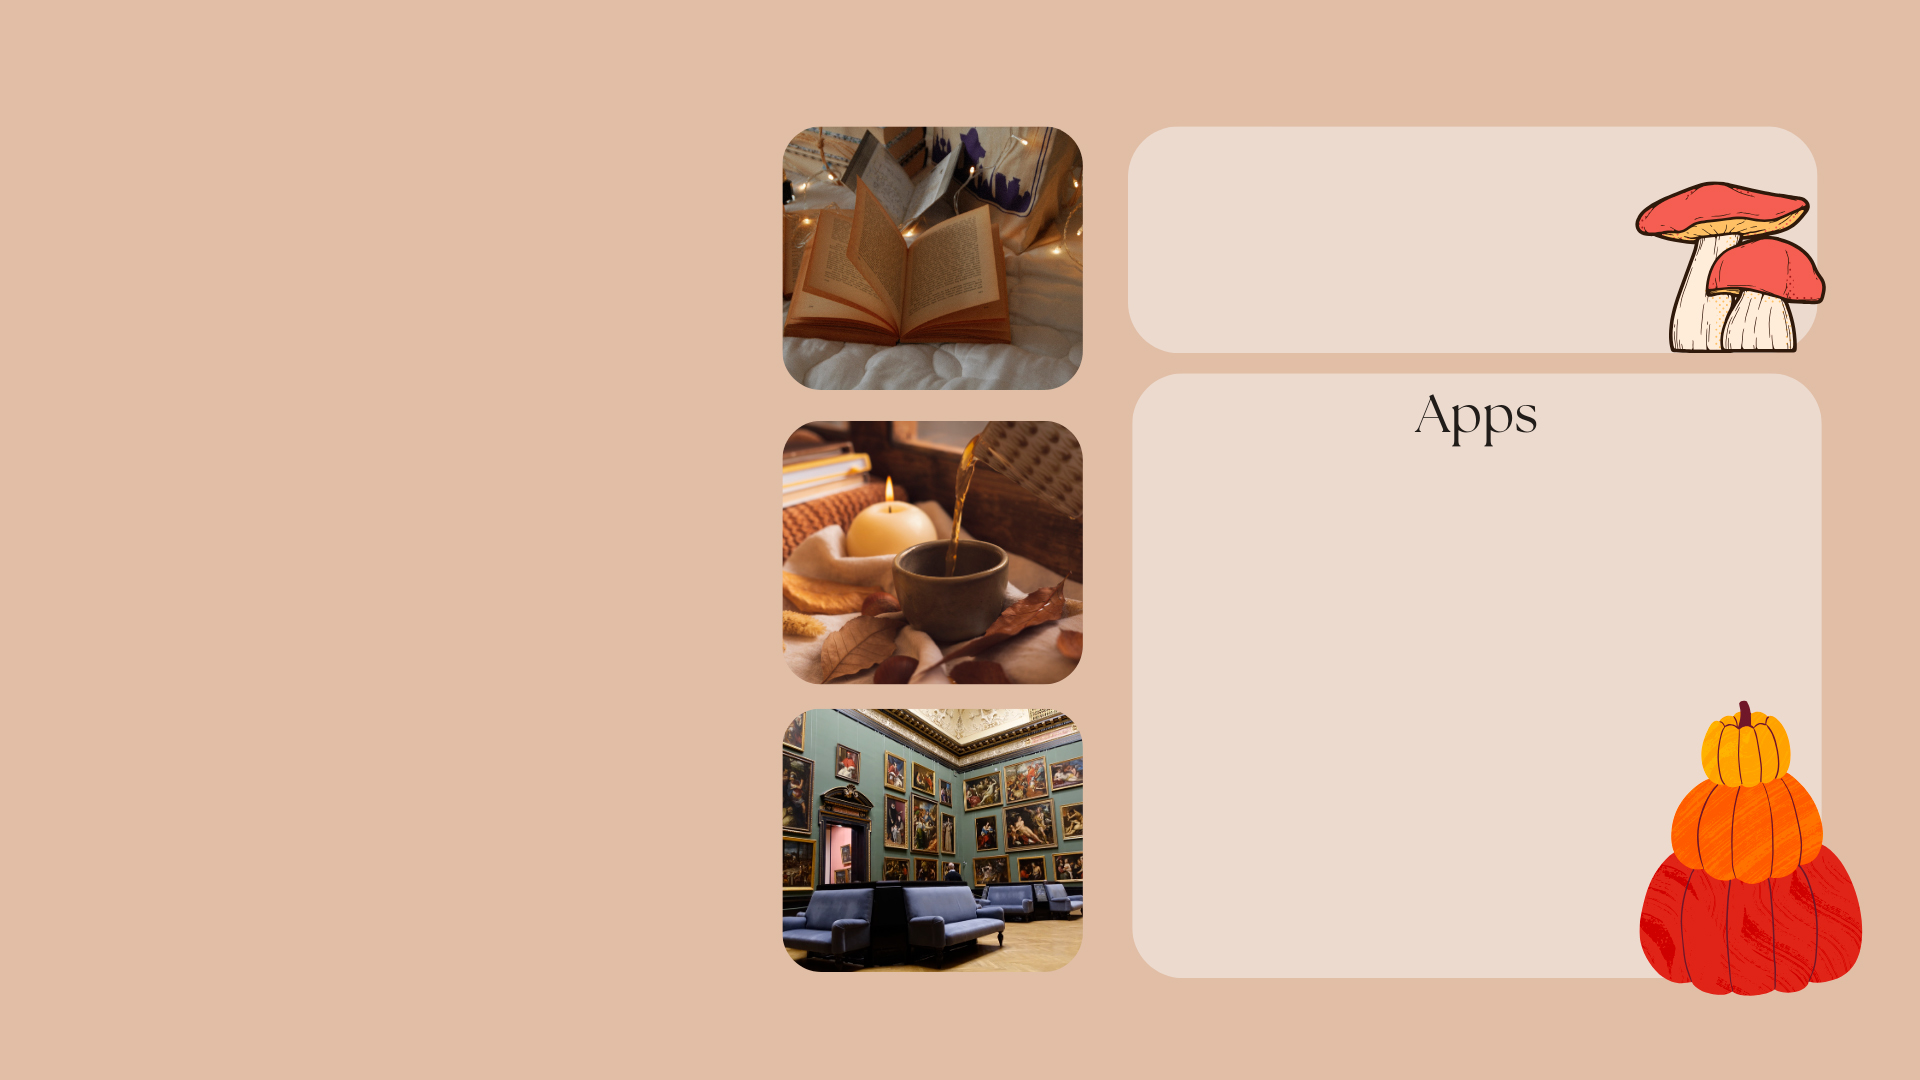
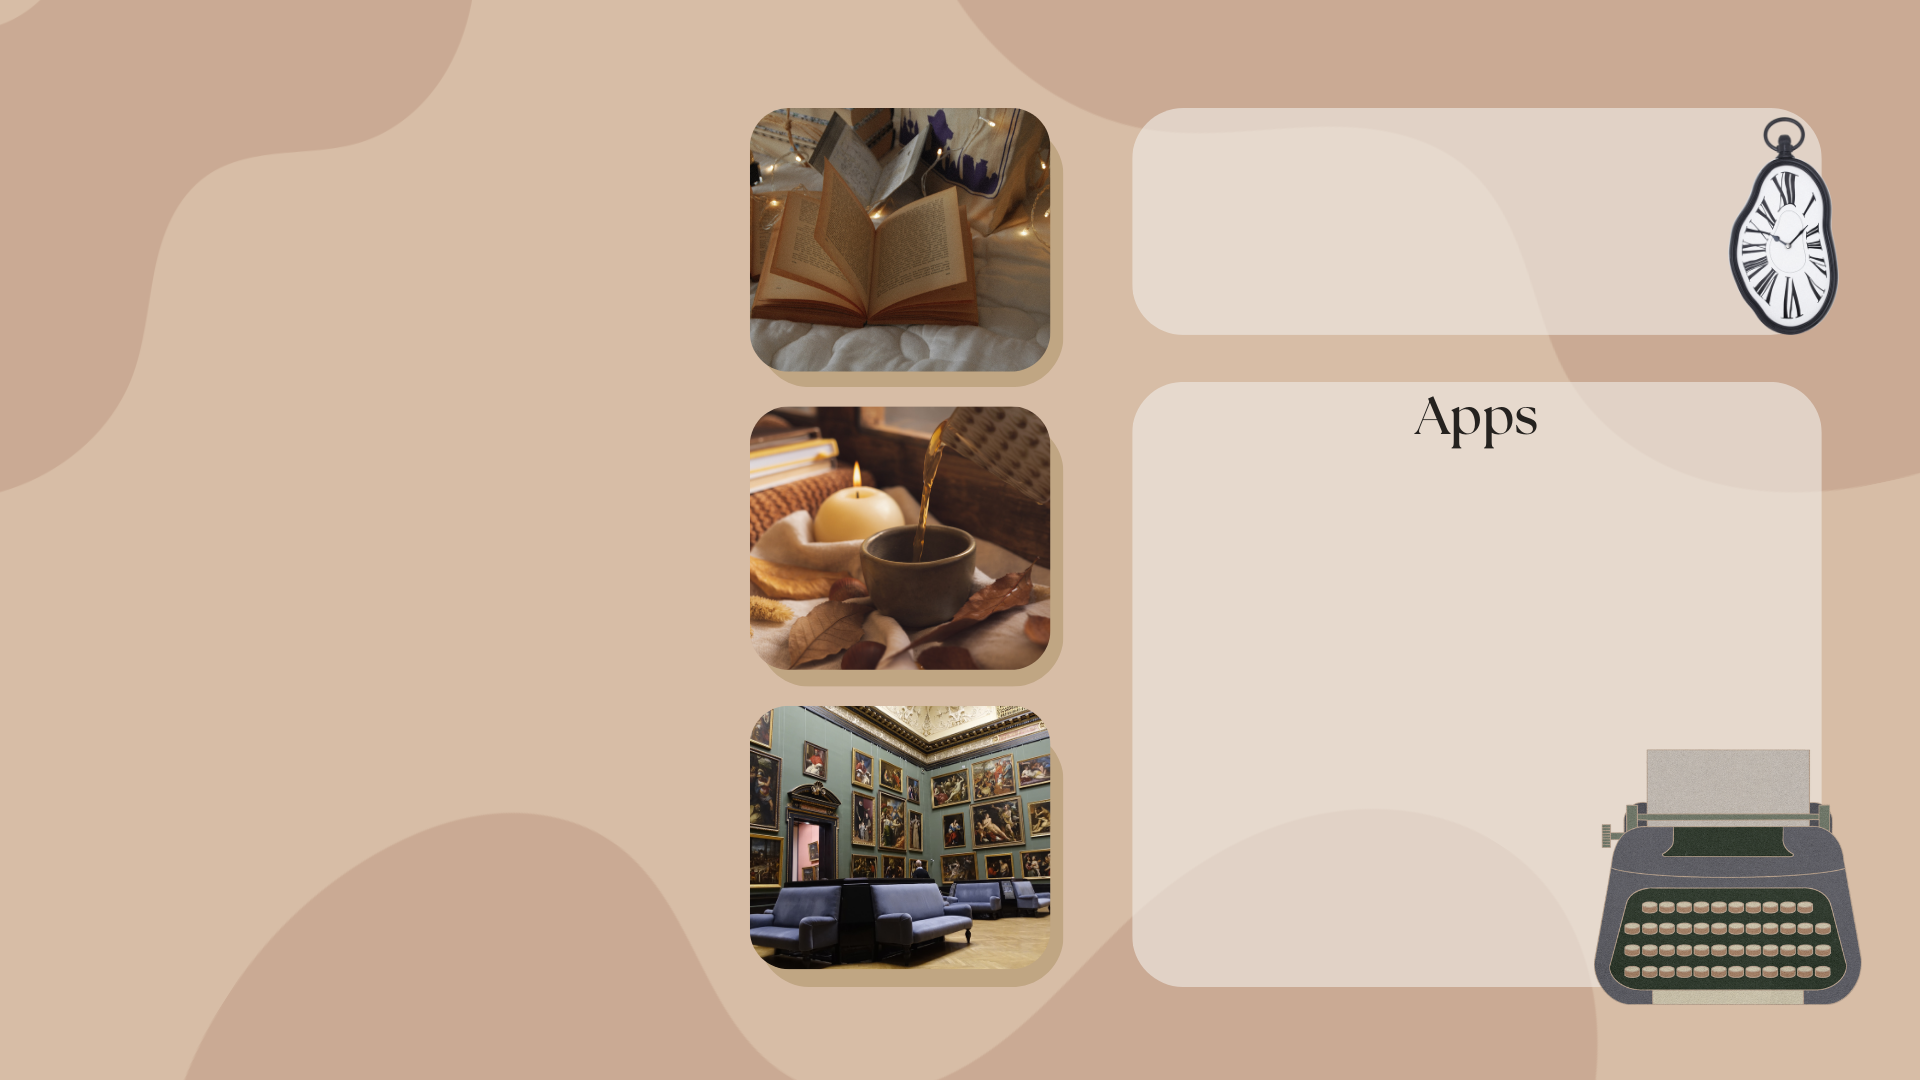
Finished player

Changed region(s): [[0.375, 0.0917, 0.5938, 0.9167], [0.5938, 0.0917, 0.9688, 0.4278], [0.5938, 0.6417, 0.9688, 0.9472]]

diff --git a/main.css b/main.css
@@ -41,12 +41,13 @@ body{
     overflow: auto;
     border-radius: 30px;
     height: 55vh;
+    box-shadow: 14px 14px rgb(192,166,131, 0.40);
 }
 
 .calendar-menu{
     display: flex;
     align-items: center;
-    justify-content: center;
+    justify-content: space-between;
     margin-top: 1.4vh;
     margin-bottom: 1.5vh;
 }
@@ -83,7 +84,7 @@ body{
 
 .button-container-calendar h2{
     font-weight: lighter;
-    font-size: 1.8em;
+    font-size: 1.4rem;
     margin-bottom: 1.5vh;
 }
 
@@ -103,13 +104,13 @@ body{
 
 .table-calendar th{
     padding: 3px 20px;
-    font-size: 1.5em;
+    font-size: 1.2rem;
     font-weight: lighter;
 }
 
 .table-calendar td{
     padding: 20px;
-    font-size: 1.2em;
+    font-size: 1rem;
     text-align: center;
     vertical-align: top;
     border-spacing: 0;
@@ -130,7 +131,8 @@ body{
 
 .box{
     display: flex;
-    background-color: #e6d9cd;
+    /* background-color: rgb(230,217,205, 0.65); */
+    background-color: rgb(241, 237, 232, 0.65);
     padding: 1.7vw;
     border-radius: 30px;
 }
@@ -150,6 +152,6 @@ body{
 }
 
 .text{
-    font-size: 1.5em;
+    font-size: 1.3rem;
     margin-left: 2vw;
 }
